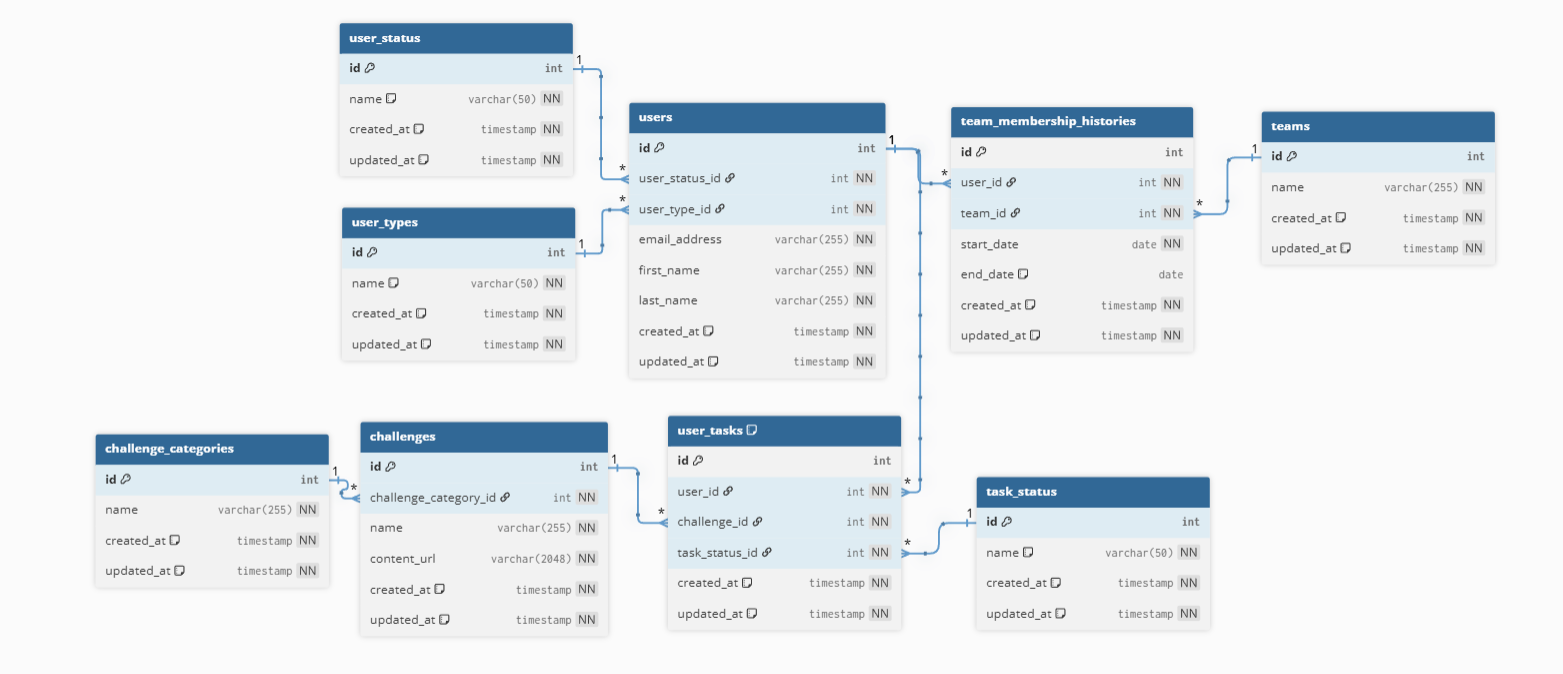
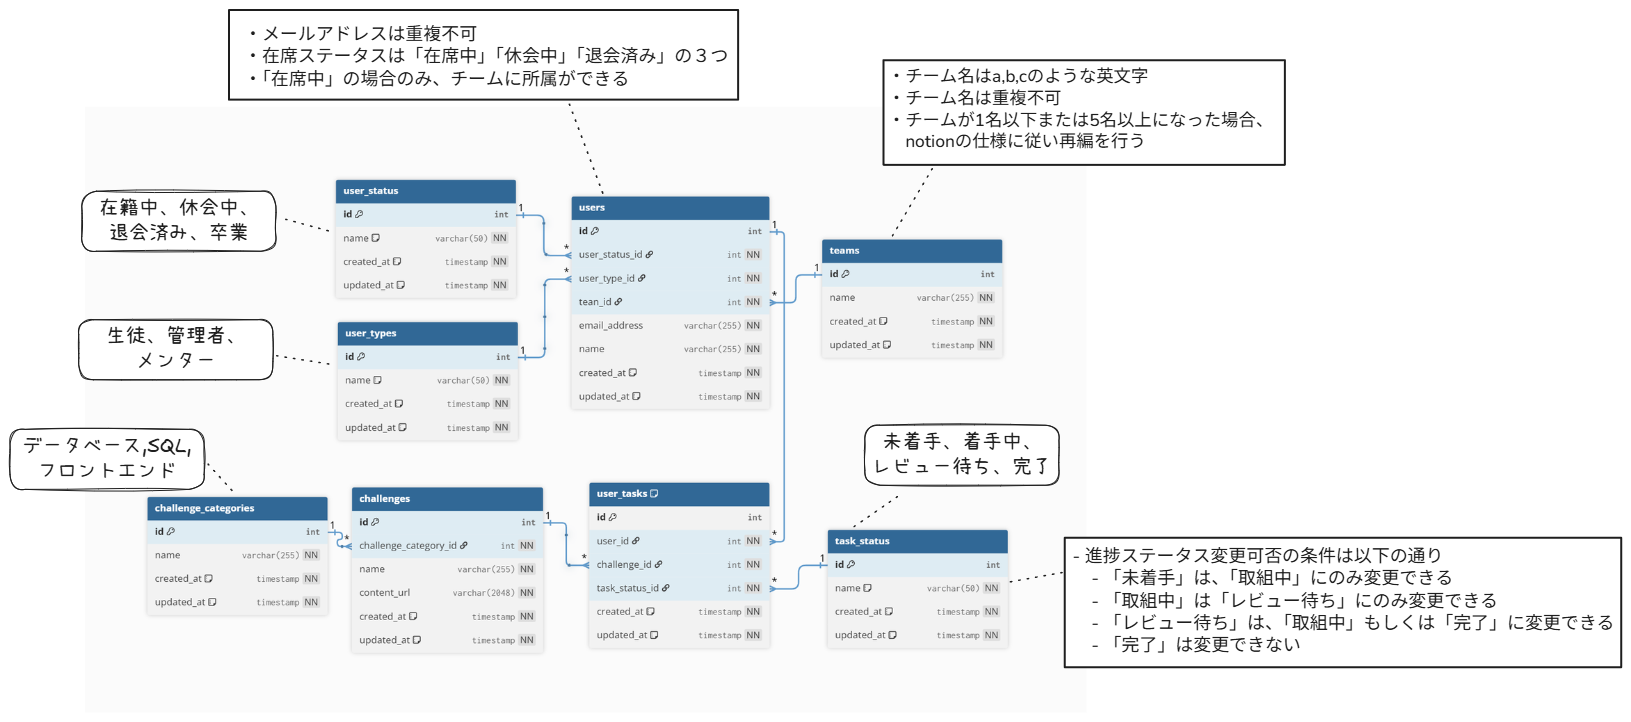
fix: ER図の更新 #6

diff --git a/docs/ER図.md b/docs/ER図.md
@@ -3,51 +3,3 @@
 https://dbdiagram.io/d/68c5dbb2841b2935a66d64a6
 
 <img src="image-1.png" width="1000"/>
-
-### users
-
-- email_address: メールアドレス
-- first_name: 名
-- last_name: 性
-
-### user_status
-
-- name: 在籍中、休会中、退会済み、卒業など
-
-### user_types
-
-- name: admin, student, mentorなど
-
-### user_tasks
-
-ある生徒のtaskステータスに変更があれば、このテーブルにinsertする
-
-- user_id: 外部キー
-- challenge_id: 外部キー
-- task_status_id: 外部キー
-
-### task_status
-
-- name: 未着手、着手中、レビュー待ち、完了など
-
-### challenges
-
-- name: 課題のタイトル
-- content_url: 課題のリンク先
-
-### challenge_categories
-
-- name: データベース、SQL、フロントエンド、設計など
-
-### teams
-
-- name: a, b, cなど
-
-### team_membership_histories
-
-userがteamに加入した場合は新しいレコードをinsertし、teamから脱退する場合は該当するuser, teamのレコードのend_dateをupdateする。
-
-- user_id: 外部キー
-- team_id: 外部キー
-- start_date: チーム加入日
-- end_date: チーム脱退日（nullであればチーム在籍とみなす）
